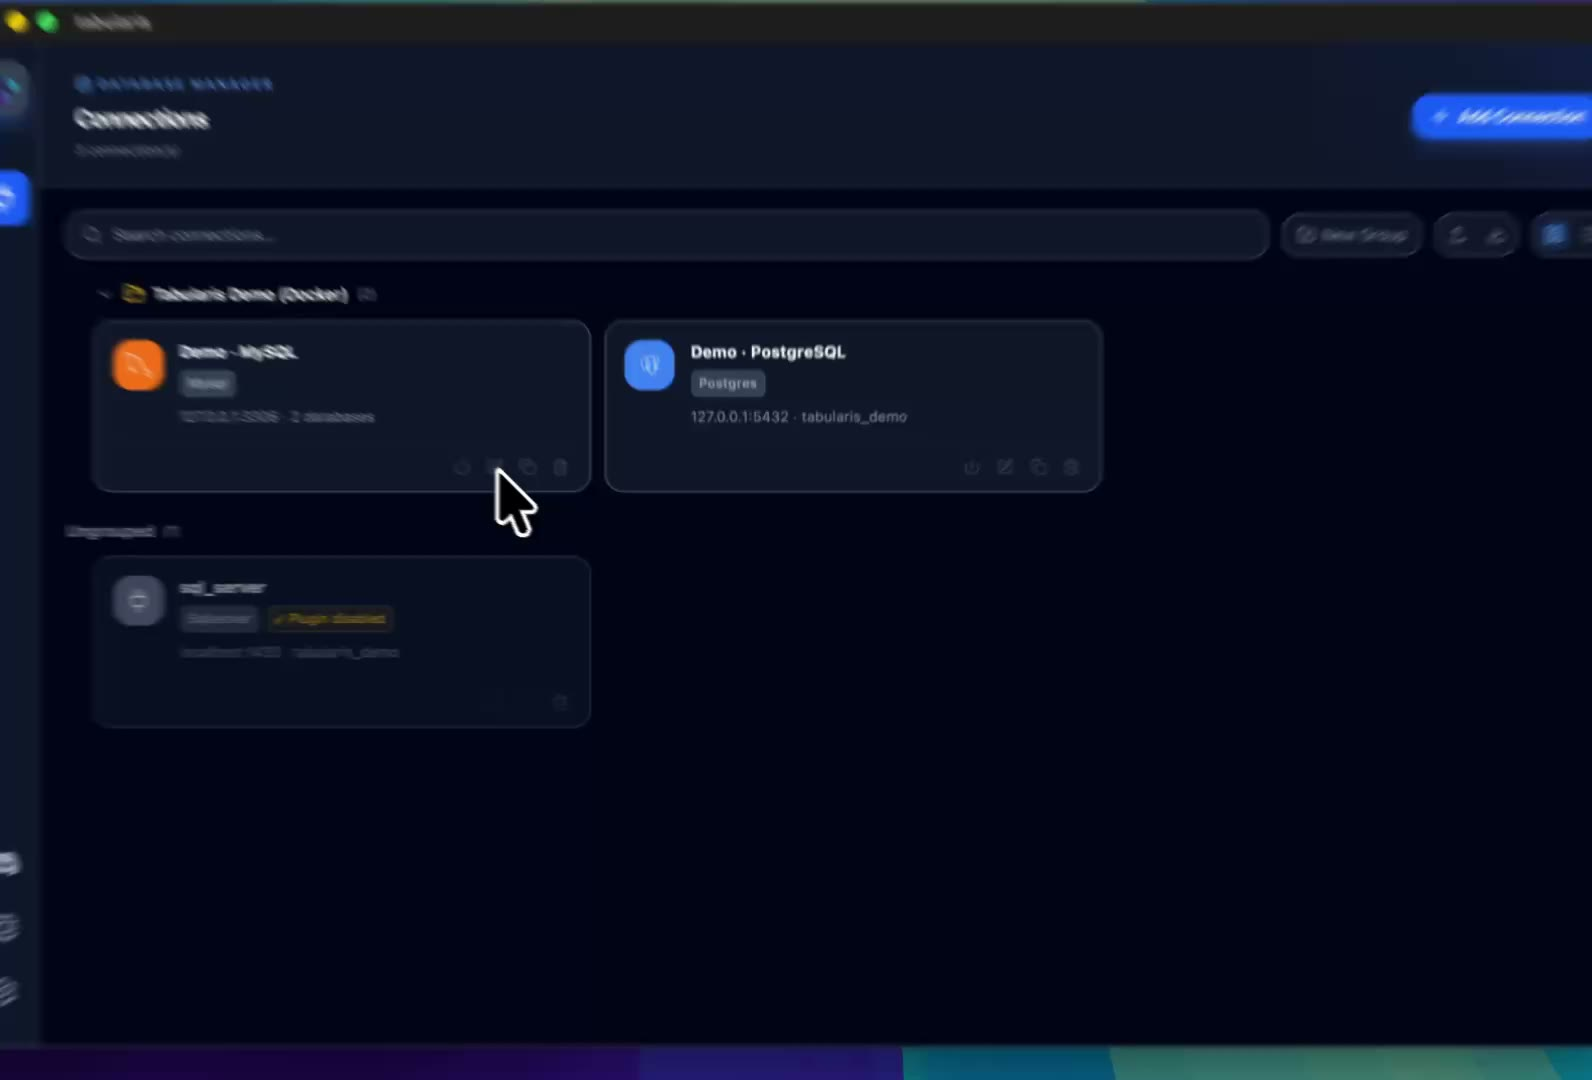
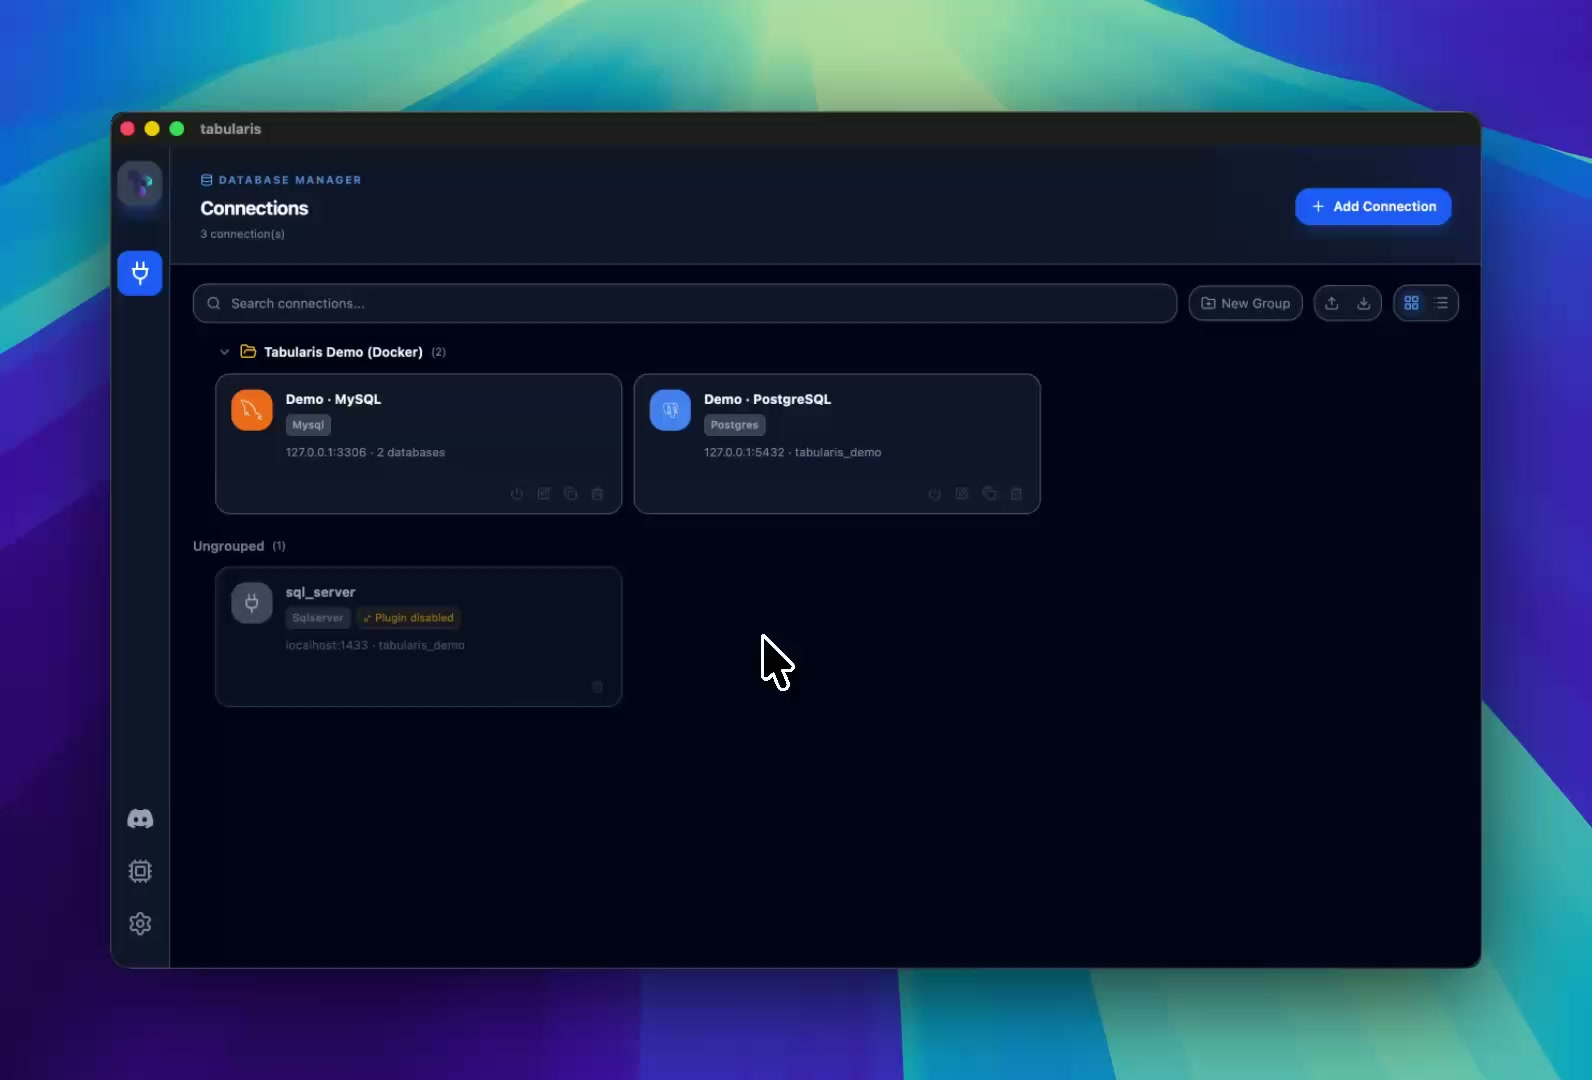
feat(videos): add quick navigator video demo and poster

diff --git a/src/lib/videos.ts b/src/lib/videos.ts
@@ -208,6 +208,17 @@ const VIDEO_DEMOS: VideoDemo[] = [
     relatedHref: "/wiki/data-grid#deleting-rows",
     relatedLabel: "Read the data grid guide",
   },
+  {
+    slug: "quick-navigator",
+    title: "Quick Navigator for Schema Objects",
+    description:
+      "Press Cmd+P / Ctrl+P to jump to any table, view, routine, or trigger in any database or schema of the active connection — in the spirit of the \"go to anything\" palette every code editor has.",
+    src: "/videos/wiki/19-quick-navigator.mp4",
+    poster: "/videos/wiki/19-quick-navigator.jpg",
+    uploadDate: "2026-06-03",
+    relatedHref: "/wiki/quick-navigator",
+    relatedLabel: "Read the Quick Navigator guide",
+  },
 ];
 
 export function getAllVideoDemos(): VideoDemo[] {
